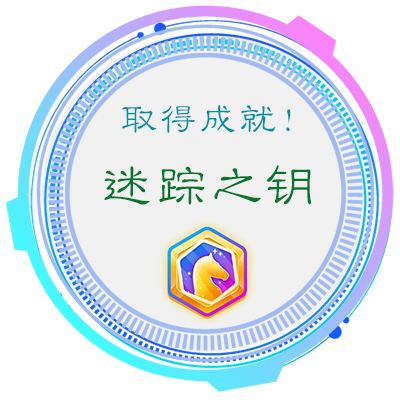
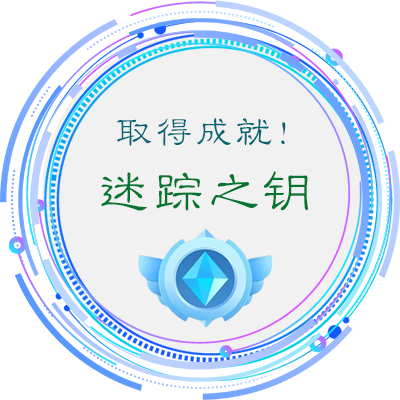
update成就动画

diff --git a/js/player3.js b/js/player3.js
@@ -66,6 +66,10 @@ class Player {
 
   showPasswordModal() {
     // 创建一个容器来放置输入框和按钮
+    this.isconversation=1;
+    self.isconversation = 1;
+    player.isconversation = 1;
+    Player.isconversation = 1;
     const container = document.createElement('div');
     container.style.position = 'absolute';
     container.style.top = '50%';
@@ -99,6 +103,10 @@ class Player {
 
     // 提交按钮点击事件
     submitButton.onclick = () => {
+      this.isconversation=0;
+      self.isconversation = 0;
+      player.isconversation = 0;
+      Player.isconversation = 0;  
         if (passwordInput.value === 'dreammaze') {
           document.getElementById('ade').style.textDecoration = 'line-through';
           document.getElementById('star').style.display = 'block';
@@ -176,12 +184,20 @@ class Player {
         
           function showNextDialogue() {
             self.isconversation = 1;
+            this.isconversation=1;
+            self.isconversation = 1;
+            player.isconversation = 1;
+            Player.isconversation = 1;        
             if (currentDialogue < dialogues.length) {
               dialogText.innerText = "";
               lailaImage.src = dialogues[currentDialogue].image;
               typeDialogue();
             } else {
               // 
+              this.isconversation=0;
+              self.isconversation = 0;
+              player.isconversation = 0;
+              Player.isconversation = 0;          
               const bodyElement = document.body;
               bodyElement.style.transition = "opacity 1s ease-out";
               bodyElement.style.opacity = 0;
@@ -201,6 +217,10 @@ class Player {
 
 
         } else {
+          this.isconversation=0;
+          self.isconversation = 0;
+          player.isconversation = 0;
+          Player.isconversation = 0;      
             errorMessage.textContent = '暗号错误，艾德里安奇怪的看了你一眼。';
             errorMessage.style.display = 'block';  // 显示错误提示
         }
@@ -208,6 +228,9 @@ class Player {
 
     // 取消按钮点击事件
     cancelButton.onclick = () => {
+      self.isconversation = 0;
+      player.isconversation = 0;
+      Player.isconversation = 0;  
         container.remove(); // 移除输入框和按钮
     };
 
